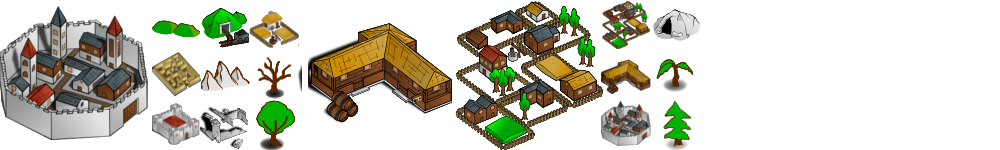
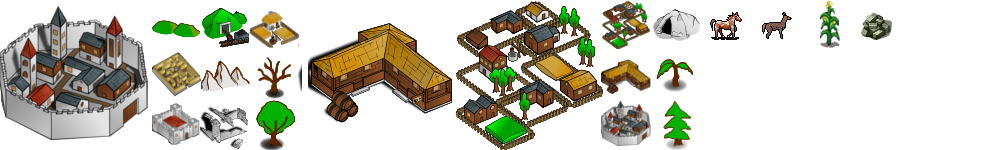
Added Resources to Global Map

Changed region(s): [[0.713, 0.0, 0.899, 0.32]]

diff --git a/Divine Right/DivineRightGame/Managers/WorldGenerationManager.cs b/Divine Right/DivineRightGame/Managers/WorldGenerationManager.cs
@@ -22,6 +22,8 @@ namespace DivineRightGame.Managers
         public const int RIVERCOUNT = 50;
         public const int RAINCENTERCOUNT = 6;
 
+        public const int RESOURCES_PER_TYPE = 5;
+
         public const int HUMAN_CAPITAL_COUNT = 4;
         public const int HUMAN_SETTLEMENTS_PER_CIVILIZATION = 7;
         public const int HUMAN_CAPITAL_SEARCH_RADIUS = 150;
@@ -91,6 +93,9 @@ namespace DivineRightGame.Managers
 
             CurrentStep = "And then came life";
             DetermineBiomes();
+
+            CurrentStep = "And some resources came to light";
+            GenerateResources();
 
             CurrentStep = "And then he looked upon the land and determined the desires of man";
             DetermineDesirability();
@@ -758,6 +763,91 @@ namespace DivineRightGame.Managers
         }
 
         /// <summary>
+        /// Generates a number of resources on the map
+        /// </summary>
+        public static void GenerateResources()
+        {
+            //First lets put all the blocks into one collection
+
+            List<MapBlock> allBlocks = new List<MapBlock>();
+
+            for (int x = 0; x < WORLDSIZE; x++)
+            {
+                for (int y = 0; y < WORLDSIZE; y++)
+                {
+                    allBlocks.Add(GameState.GlobalMap.GetBlockAtCoordinate(new MapCoordinate(x, y, 0, MapTypeEnum.GLOBAL)));
+                }
+            }
+
+            //Prepare stuff we might need
+            var grassLandBlocks = allBlocks.Where(ab => (ab.Tile as GlobalTile).Biome == GlobalBiome.GRASSLAND && (ab.Tile as GlobalTile).Elevation > 0 && !(ab.Tile as GlobalTile).HasResource && !(ab.Tile as GlobalTile).HasRiver).OrderBy(ab => GameState.Random.Next(1000));
+            var waterBlocks = allBlocks.Where(ab => (ab.Tile as GlobalTile).Elevation <= 0 && !(ab.Tile as GlobalTile).HasResource && !(ab.Tile as GlobalTile).HasRiver).OrderBy(ab => GameState.Random.Next(1000));
+            var denseForestBlocks = allBlocks.Where(ab => (ab.Tile as GlobalTile).Biome == GlobalBiome.DENSE_FOREST && !(ab.Tile as GlobalTile).HasResource && !(ab.Tile as GlobalTile).HasRiver).OrderBy(ab => GameState.Random.Next(1000));
+            var forestBlocks = allBlocks.Where(ab => (ab.Tile as GlobalTile).Biome == GlobalBiome.WOODLAND && !(ab.Tile as GlobalTile).HasResource && !(ab.Tile as GlobalTile).HasRiver).OrderBy(ab => GameState.Random.Next(1000));
+            var hillyLocations = allBlocks.Where(ab => (ab.Tile as GlobalTile).Elevation > 80 && !(ab.Tile as GlobalTile).HasResource && !(ab.Tile as GlobalTile).HasRiver).OrderBy(ab => GameState.Random.Next(1000));
+
+            foreach (GlobalResourceType resource in Enum.GetValues(typeof(GlobalResourceType)))
+            {
+                List<MapBlock> candidateBlocks = new List<MapBlock>();
+
+                switch (resource)
+                {
+                    case GlobalResourceType.FARMLAND:
+                        //Farmland only is possible on grassland
+                        candidateBlocks.AddRange(grassLandBlocks);
+                        break;
+                    case GlobalResourceType.FISH:
+                        //Fish is only possible in water
+                        candidateBlocks.AddRange(waterBlocks);
+                        break;
+                    case GlobalResourceType.GAME:
+                        //Game is found in dense forests, woodland and rarely grasslands
+                        candidateBlocks.AddRange(denseForestBlocks.Take(150));
+                        candidateBlocks.AddRange(forestBlocks.Take(100));
+                        candidateBlocks.AddRange(grassLandBlocks.Take(50));
+                        break;
+                    case GlobalResourceType.GOLD:
+                        //Gold is found in hilly locations
+                        candidateBlocks.AddRange(hillyLocations);
+                        break;
+                    case GlobalResourceType.HORSE:
+                        //Horses are found in grassland and forests
+                        candidateBlocks.AddRange(grassLandBlocks.Take(150));
+                        candidateBlocks.AddRange(forestBlocks.Take(50));
+                        break;
+                    case GlobalResourceType.IRON:
+                        //Iron is found in hills
+                        candidateBlocks.AddRange(hillyLocations);
+                        break;
+                    case GlobalResourceType.STONE:
+                        //Stone is found in hills
+                        candidateBlocks.AddRange(hillyLocations);
+                        break;
+                    case GlobalResourceType.WOOD:
+                        //Wood is found in dense forests and woodland
+                        candidateBlocks.AddRange(denseForestBlocks.Take(150));
+                        candidateBlocks.AddRange(forestBlocks.Take(100));
+                        break;
+                }
+
+                //Shuffle the candidates, and take the first few blocks
+                candidateBlocks = candidateBlocks.Where(cb => !(cb.Tile as GlobalTile).HasResource).OrderBy(ab => GameState.Random.Next(1000)).ToList();
+
+                foreach (var chosenBlock in candidateBlocks.Take(RESOURCES_PER_TYPE))
+                {
+                    //Mark the tile
+                    (chosenBlock.Tile as GlobalTile).HasResource = true;
+
+                    //Create the resource item
+                    MapResource resourceItem = new MapResource(resource);
+                    resourceItem.Coordinate = chosenBlock.Tile.Coordinate;
+
+                    chosenBlock.ForcePutItemOnBlock(resourceItem);
+                }
+            }
+        }
+
+        /// <summary>
         /// This determines the base desirability for all tile by examining the tile itself
         /// </summary>
         public static void DetermineDesirability()
@@ -771,7 +861,7 @@ namespace DivineRightGame.Managers
                     GlobalTile tile = (block.Tile as GlobalTile);
 
                     //calculate the desirability for the tile
-                    tile.BaseDesirability = DetermineDesirability(tile);
+                    tile.BaseDesirability = DetermineDesirability(block);
                 }
             }
         }
@@ -802,10 +892,10 @@ namespace DivineRightGame.Managers
 
                 //We only need to consider tiles which have no river, and actual land which isn't a mountain
                 //Also consider those which aren't blocked and which aren't claimed
-                var candidateBlocks = regionalBlocks.Where(rb => !(rb.Tile as GlobalTile).HasRiver && (rb.Tile as GlobalTile).Elevation > 0 && (rb.Tile as GlobalTile).Elevation < 250
+                var candidateBlocks = regionalBlocks.Where(rb => !(rb.Tile as GlobalTile).HasRiver && !(rb.Tile as GlobalTile).HasResource && (rb.Tile as GlobalTile).Elevation > 0 && (rb.Tile as GlobalTile).Elevation < 250
                     && !(rb.Tile as GlobalTile).IsBlockedForColonisation
                     && ((rb.Tile as GlobalTile).Owner == null || (rb.Tile as GlobalTile).Owner == i))
-                    .OrderByDescending(rb => (rb.Tile as GlobalTile).BaseDesirability + (GetBlocksAroundPoint(rb.Tile.Coordinate, 1).Sum(rba => (rba.Tile as GlobalTile).BaseDesirability)));
+                    .OrderByDescending(rb => (rb.Tile as GlobalTile).BaseDesirability + (GetBlocksAroundPoint(rb.Tile.Coordinate, 2).Sum(rba => (rba.Tile as GlobalTile).BaseDesirability)));
 
                 if (candidateBlocks.ToArray().Length == 0)
                 {
@@ -946,8 +1036,9 @@ namespace DivineRightGame.Managers
         /// </summary>
         /// <param name="tile"></param>
         /// <returns></returns>
-        public static int DetermineDesirability(GlobalTile tile)
+        public static int DetermineDesirability(MapBlock block)
         {
+            GlobalTile tile = block.Tile as GlobalTile; //Get the tile
             int desirability = 0;
 
             #region Temperature
@@ -1034,7 +1125,15 @@ namespace DivineRightGame.Managers
 
             #endregion
 
-            //TODO - EVENTUALLY WE'LL HAVE RESOURCES TOO
+            //Any resources?
+            if (tile.HasResource)
+            {
+                //Find it
+                MapResource resource = block.GetItems().Where(gi => gi.GetType().Equals(typeof(MapResource))).FirstOrDefault() as MapResource;
+
+                desirability += resource.Desirability;
+
+            }
 
             return desirability;
         }

diff --git a/Divine Right/Objects/Items/Archetypes/Global/MapResource.cs b/Divine Right/Objects/Items/Archetypes/Global/MapResource.cs
@@ -1,0 +1,99 @@
+using System;
+using System.Collections.Generic;
+using System.Linq;
+using System.Text;
+using DRObjects.Enums;
+using DRObjects.Graphics;
+
+namespace DRObjects.Items.Archetypes.Global
+{
+    /// <summary>
+    /// A resource which is positioned on the map
+    /// </summary>
+    public class MapResource :
+        MapItem
+    {
+        public GlobalResourceType ResourceType { get; set; }
+        /// <summary>
+        /// How much this resource is desirable
+        /// </summary>
+        public int Desirability { get; set; }
+        private List<SpriteData> sprites;
+
+        public MapResource(GlobalResourceType resourceType)
+        {
+            this.ResourceType = resourceType;
+
+            //pick the right graphic to show
+            sprites = new List<SpriteData>();
+
+            switch(ResourceType)
+            {
+                case GlobalResourceType.FISH:
+                    sprites.Add(SpriteManager.GetSprite(LocalSpriteName.FISH_4));
+                    this.Name = "Fish";
+                    this.Description = "A source of plentiful fish";
+                    this.Desirability = 3;
+                    break;
+                case GlobalResourceType.GAME:
+                    sprites.Add(SpriteManager.GetSprite(GlobalSpriteName.GAME));
+                    this.Name = "Game";
+                    this.Description = "A source of Game and other huntable creatures";
+                    this.Desirability = 3;
+                    break;
+                case GlobalResourceType.GOLD:
+                    sprites.Add(SpriteManager.GetSprite(LocalSpriteName.GOLD_BARS_2));
+                    this.Name = "Gold";
+                    this.Description = "There's gold in them hills";
+                    this.Desirability = 5;
+                    break;
+                case GlobalResourceType.HORSE:
+                    sprites.Add(SpriteManager.GetSprite(GlobalSpriteName.HORSES));
+                    this.Name = "Horses";
+                    this.Description = "Wild horses live here";
+                    this.Desirability = 3;
+                    break;
+                case GlobalResourceType.IRON:
+                    sprites.Add(SpriteManager.GetSprite(LocalSpriteName.IRON_BARS_2));
+                    this.Name = "Iron";
+                    this.Description = "Iron is found here";
+                    this.Desirability = 4;
+                    break;
+                case GlobalResourceType.STONE:
+                    sprites.Add(SpriteManager.GetSprite(GlobalSpriteName.STONES));
+                    this.Name = "Stone";
+                    this.Description = "Good stone is found here";
+                    this.Desirability = 3;
+                    break;
+                case GlobalResourceType.FARMLAND:
+                    sprites.Add(SpriteManager.GetSprite(GlobalSpriteName.FARMLAND));
+                    this.Name = "Farmland";
+                    this.Description = "This land is very fertile";
+                    this.Desirability = 4;
+                    break;
+                case GlobalResourceType.WOOD:
+                    sprites.Add(SpriteManager.GetSprite(LocalSpriteName.WOOD_LOGS_THREE));
+                    this.Name = "Wood";
+                    this.Description = "Wood here grows well";
+                    this.Desirability = 3;
+                    break;
+                default:
+                    throw new NotImplementedException("No code for resource type " + ResourceType);
+            }
+        }
+
+        public override List<SpriteData> Graphics
+        {
+            get
+            {
+                return sprites;
+            }
+            set
+            {
+                base.Graphics = value;
+            }
+        }
+
+    }
+
+}

diff --git a/Divine Right/Objects/Graphics/SpriteManager.cs b/Divine Right/Objects/Graphics/SpriteManager.cs
@@ -65,6 +65,10 @@ namespace DRObjects.Graphics
             globalSprites[(int)GlobalSpriteName.HAMLET] = new SpriteData(WORLDITEMS, new Rectangle(600, 50, 50, 50));
             globalSprites[(int)GlobalSpriteName.VILLAGE] = new SpriteData(WORLDITEMS, new Rectangle(600, 0, 50, 50));
             globalSprites[(int)GlobalSpriteName.CAPITAL] = new SpriteData(WORLDITEMS, new Rectangle(600, 100, 50, 50));
+            globalSprites[(int)GlobalSpriteName.HORSES] = new SpriteData(WORLDITEMS, new Rectangle(700, 0, 50, 50));
+            globalSprites[(int)GlobalSpriteName.GAME] = new SpriteData(WORLDITEMS, new Rectangle(750, 0, 50, 50));
+            globalSprites[(int)GlobalSpriteName.FARMLAND] = new SpriteData(WORLDITEMS, new Rectangle(800, 0, 50, 50));
+            globalSprites[(int)GlobalSpriteName.STONES] = new SpriteData(WORLDITEMS, new Rectangle(850, 0, 50, 50));
 
             globalSprites[(int)GlobalSpriteName.CAPITAL_1] = new SpriteData(WORLDITEMS, new Rectangle(0, 0, 50, 50));
             globalSprites[(int)GlobalSpriteName.CAPITAL_2] = new SpriteData(WORLDITEMS, new Rectangle(50, 0, 50, 50));

diff --git a/Divine Right/Objects/Items/Tiles/Global/GlobalTile.cs b/Divine Right/Objects/Items/Tiles/Global/GlobalTile.cs
@@ -98,6 +98,11 @@ namespace DRObjects.Items.Tiles.Global
         /// </summary>
         public int? Owner { get; set; }
 
+        /// <summary>
+        /// Whether it contains a resource (to save us time looking)
+        /// </summary>
+        public bool HasResource { get; set; }
+
         #endregion
 
         #region Properties
@@ -386,6 +391,7 @@ namespace DRObjects.Items.Tiles.Global
             Region = -1;
             base.MayContainItems = true;
             IsBlockedForColonisation = false;
+            HasResource = false;
         }
 
         #endregion

diff --git a/Divine Right/Objects/Enums/GlobalResource.cs b/Divine Right/Objects/Enums/GlobalResource.cs
@@ -1,0 +1,19 @@
+using System;
+using System.Collections.Generic;
+using System.Linq;
+using System.Text;
+
+namespace DRObjects.Enums
+{
+    public enum GlobalResourceType
+    {
+        IRON,
+        GOLD,
+        FARMLAND,
+        FISH,
+        STONE,
+        WOOD,
+        GAME,
+        HORSE
+    }
+}

diff --git a/Divine Right/Objects/Graphics/GlobalSpriteName.cs b/Divine Right/Objects/Graphics/GlobalSpriteName.cs
@@ -55,5 +55,9 @@ namespace DRObjects.Graphics
         VILLAGE_7,
         VILLAGE_8,
         VILLAGE_9,
+        HORSES,
+        GAME,
+        FARMLAND,
+        STONES,
     }
 }
